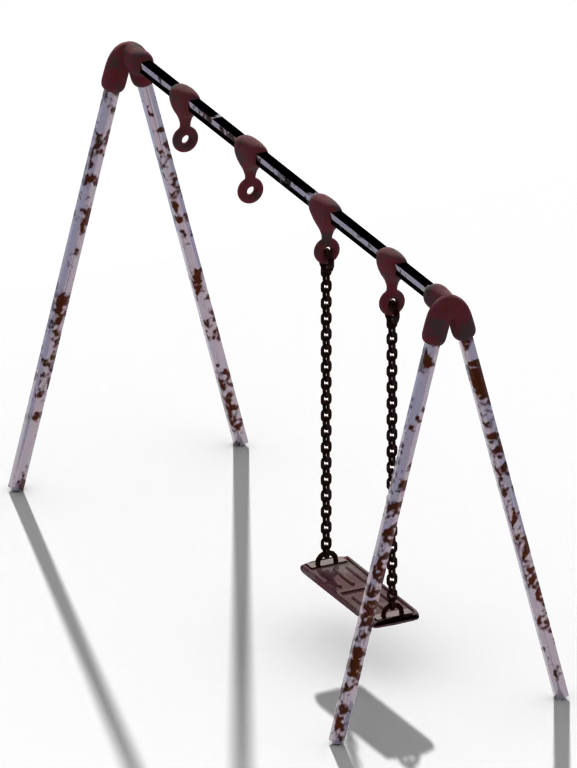
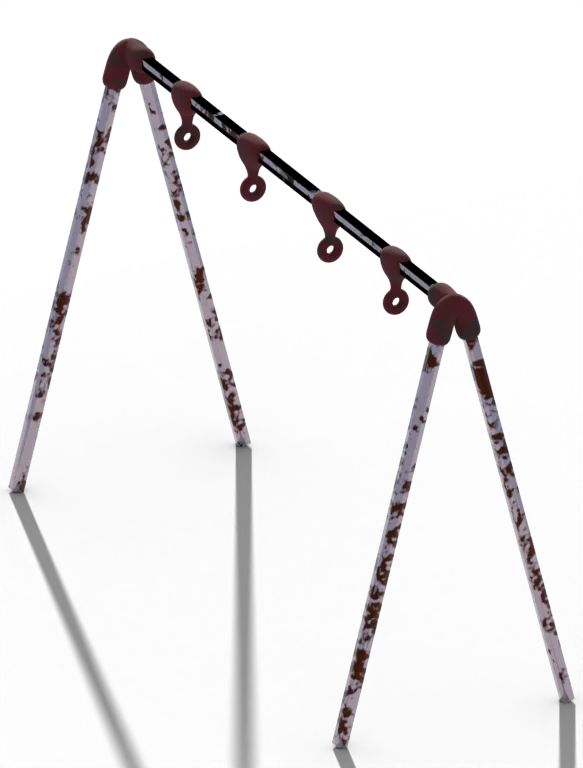
feat(white-rabbit): a bounded yard with side fences, a neighbor's house and a cross street, a deck with railings, a gate, and two flights of steps, a garden of squash on trellises running onto the fence and cherry tomatoes in cages, and plants and the swing moving in the wind

diff --git a/src/app/public/js/white-rabbit-world.js b/src/app/public/js/white-rabbit-world.js
@@ -36,7 +36,12 @@ const SHAPE_GLSL = /* glsl */`
     vec2 q = (xz - vec2(${POND.x.toFixed(1)}, ${POND.z.toFixed(1)})) / vec2(${POND.ax.toFixed(1)}, ${POND.az.toFixed(1)});
     return (length(q) - shape(atan(q.y, q.x))) * ${((POND.ax + POND.az) / 2).toFixed(1)};
   }`;
-const BED = [-19.7, -18.3, 2.5, 12.5];    // the sunflower bed: x0, x1, z0, z1
+const BED = [-19.7, -18.3, -6.5, 11.5];   // the garden along the back fence: x0, x1, z0, z1
+// The yard: the back fence, and the side fences from the house to it (the right side, toward -z, meets
+// a cross street; the left, toward +z, a neighbor's house), and the deck below the window
+const YARD = { back: -20, right: -10, left: 12.5 };
+const DECK = { x0: -8.6, x1: -2.05, z0: -9.4, z1: -1.0, y: GROUND + 0.75 };
+const CROSS = { walk1: [-10.6, -12.6], road: [-12.6, -19.6], walk2: [-19.6, -21.6] };
 
 // The atlas cells: u0, v0, u1, v1, and width over height (from blender/world.py), and each kind's height in meters
 const CELLS = [[0.0306, 0.5, 0.3021, 1.0, 0.652], [0.3333, 0.5, 0.6667, 0.8125, 1.28], [0.6667, 0.5, 1.0, 0.8453, 1.158],
@@ -117,6 +122,19 @@ const GROUND_FRAG = /* glsl */`
       col = mix(tar, vec3(0.85, 0.66, 0.12), yellow);
       col = mix(col, vec3(0.86), white);
     }
+    // The cross street off to the right, running out from beside the house to the road, with its sidewalks
+    if (x > ${STRIP.road[1].toFixed(1)}) {
+      if ((z < ${CROSS.walk1[0].toFixed(1)} && z > ${CROSS.walk1[1].toFixed(1)}) || (z < ${CROSS.walk2[0].toFixed(1)} && z > ${CROSS.walk2[1].toFixed(1)})) if (x > ${STRIP.sidewalk1[0].toFixed(1)})
+        col = vec3(0.66, 0.64, 0.6) * (0.9 + 0.12 * noise(vW.xz * 7.0)) * (1.0 - 0.35 * smoothstep(0.03, 0.0, abs(fract(x / 1.5) - 0.5) - 0.47));
+      if (z < ${CROSS.road[0].toFixed(1)} && z > ${CROSS.road[1].toFixed(1)}) {
+        float mz = ${((CROSS.road[0] + CROSS.road[1]) / 2).toFixed(2)};
+        col = vec3(0.14, 0.14, 0.15) * (0.85 + 0.3 * noise(vW.xz * 9.0)) * (0.9 + 0.15 * noise(vW.xz * 0.5));
+        col = mix(col, vec3(0.85, 0.66, 0.12), smoothstep(0.07, 0.05, abs(abs(z - mz) - 0.12)) * step(${STRIP.road[0].toFixed(1)}, x));
+        col = mix(col, vec3(0.1), 0.25 * smoothstep(0.6, 0.0, noise(vW.xz * 0.8)));   // patched cracks and oil
+      }
+    }
+    // Deep shade under the deck
+    if (x > ${DECK.x0.toFixed(2)} - 0.3 && x < ${DECK.x1.toFixed(2)} && z > ${DECK.z0.toFixed(2)} - 0.3 && z < ${DECK.z1.toFixed(2)} + 0.3) col *= 0.45;
     // Around the pond: a rim of quarry stone at the water, a strip of grass, then the gravel walkway
     if (e < 0.9) col = vec3(0.52, 0.5, 0.46) * (0.7 + 0.45 * hash(floor(vW.xz * 6.0)));
     else if (e > 2.2 && e < 4.2) col = vec3(0.7, 0.66, 0.58) * (0.85 + 0.25 * hash(floor(vW.xz * 30.0))) * (1.0 - 0.15 * smoothstep(0.3, 0.0, min(e - 2.2, 4.2 - e)));
@@ -218,11 +236,15 @@ const SOLID_VERT = /* glsl */`
   }`;
 const SOLID_FRAG = /* glsl */`
   ${COMMON}
+  ${hash}
   uniform vec3 uColor;
+  uniform float uGrain;
   varying vec3 vW, vN, vTint;
   void main() {
-    // Weathering: paint greys and greens toward the ground, where rain splashes and mower clippings land
+    // Weathering: paint greys and greens toward the ground, where rain splashes and mower clippings land;
+    // bare wood (uGrain) shows streaky grain and silvering
     vec3 c = uColor * vTint * mix(vec3(0.72, 0.76, 0.66), vec3(1.0), smoothstep(-3.0, -2.55, vW.y));
+    c *= 1.0 - uGrain * (0.18 * noise(vec2(vW.z * 1.3 + vW.x * 30.0, vW.y * 40.0 + vW.x * 7.0)) + 0.08 * noise(vW.xz * 23.0));
     gl_FragColor = vec4(outdoor(c, normalize(vN), vW), 1.0);
   }`;
 
@@ -238,8 +260,8 @@ export function createWorld({ scene, touch }) {
   // Trees: on the verge past the fence and along the shore, thinned where the window looks out (z near
   // 0.6) so the lake shows between them, and a few in the yard's corners
   const trees = [];
-  for (let z = -46; z < 46; z += 6 + rnd() * 4) if (Math.abs(z - 0.6) > 9 || rnd() < 0.2) trees.push([-20.9 - rnd() * 0.5, z, rnd(), 1]);
-  trees.push([-15.5, -13.5, rnd(), 1], [-5.5, 15, rnd(), 1], [-17, 16.5, rnd(), 1]);
+  for (let z = -46; z < 46; z += 6 + rnd() * 4) if ((Math.abs(z - 0.6) > 9 || rnd() < 0.2) && (z > -10 || z < -22.5)) trees.push([-20.9 - rnd() * 0.5, z, rnd(), 1]);
+  trees.push([-16.2, -8.4, rnd(), 0.8], [-4.2, 10.6, rnd(), 0.7]);
   // In the park on the near bank, behind the walkway, spaced so the water shows between them; the far
   // banks, a kilometer off, get a continuous wooded line instead (below)
   for (let a = -0.4; a < 0.4 && trees.length < 48; a += 0.025 + rnd() * 0.03) {
@@ -305,57 +327,189 @@ export function createWorld({ scene, touch }) {
   })));
   hills.rotation.y = Math.PI / 2; hills.position.set(-2600, GROUND + 70, 0);
 
-  // The fence: white pickets on two rails between posts every 2.4 m, years old. Pickets differ a little in
-  // height and lean, some sections sag, the paint has weathered unevenly and gone grey and green near the
-  // ground, a few pickets lean hard, and here and there one is missing
-  const solid = (color) => new T.ShaderMaterial({ uniforms: { ...common, uColor: { value: new T.Color(color) } }, vertexShader: SOLID_VERT, fragmentShader: SOLID_FRAG });
-  const n = Math.floor(120 / 0.16), pickets = keep(new T.InstancedMesh(new T.BoxGeometry(0.02, 1.1, 0.09), solid("#FFFFFF"), n));
+  // The fence: white pickets 1.5 m tall on two rails between posts every 2.4 m, around the back and both
+  // sides of the yard, years old. Pickets differ a little in height and lean, sections sag, the paint has
+  // weathered unevenly and gone grey and green near the ground, a few pickets lean hard, and here and there
+  // one is missing
+  const solid = (color, grain = 0) => new T.ShaderMaterial({ uniforms: { ...common, uColor: { value: new T.Color(color) }, uGrain: { value: grain } }, vertexShader: SOLID_VERT, fragmentShader: SOLID_FRAG });
   const m = new T.Matrix4(), qq = new T.Quaternion(), e = new T.Euler(), at0 = new T.Vector3(), sc0 = new T.Vector3(), tint = new T.Color();
-  const sag = (z) => 0.035 * Math.sin(((z + 60) / 2.4) * Math.PI) ** 2 * (0.4 + 0.6 * Math.abs(Math.sin(z * 0.37)));
-  for (let i = 0; i < n; i++) {
-    const z = -60 + i * 0.16 + (rnd() - 0.5) * 0.015, hard = rnd() < 0.015, gone = rnd() < 0.008;
-    const h = 1 + (rnd() - 0.5) * 0.06;
-    e.set((rnd() - 0.5) * 0.04 + (hard ? (rnd() - 0.5) * 0.5 : 0), 0, (rnd() - 0.5) * 0.05 + (hard ? 0.18 : 0));
-    at0.set(STRIP.fence + (rnd() - 0.5) * 0.01, GROUND + 0.55 * h - sag(z), z); sc0.set(1, gone ? 0.0001 : h, 1);
-    pickets.setMatrixAt(i, m.compose(at0, qq.setFromEuler(e), sc0));
-    const w = 0.82 + rnd() * 0.18;
-    pickets.setColorAt(i, tint.setRGB(0.93 * w, 0.92 * w, 0.88 * w - rnd() * 0.04));
+  const PICKET = 1.5, runs = [[YARD.back, YARD.right, YARD.back, YARD.left], [-2.1, YARD.right, YARD.back, YARD.right], [-2.1, YARD.left, YARD.back, YARD.left]];
+  const lens = runs.map(([x0, z0, x1, z1]) => Math.hypot(x1 - x0, z1 - z0)), total = lens.reduce((a, b) => a + b, 0);
+  const pickets = keep(new T.InstancedMesh(new T.BoxGeometry(0.02, PICKET, 0.09), solid("#FFFFFF"), Math.ceil(total / 0.16) + 3));
+  const posts = keep(new T.InstancedMesh(new T.BoxGeometry(0.09, PICKET + 0.12, 0.09), solid("#D8D4C8"), Math.ceil(total / 2.4) + 6));
+  let np = 0, nq = 0;
+  runs.forEach(([x0, z0, x1, z1], r) => {
+    const len = lens[r], turn = Math.atan2(x1 - x0, z1 - z0), sag = (d) => 0.035 * Math.sin((d / 2.4) * Math.PI) ** 2 * (0.4 + 0.6 * Math.abs(Math.sin(d * 0.37 + r)));
+    const at = (d) => [x0 + ((x1 - x0) * d) / len, z0 + ((z1 - z0) * d) / len];
+    for (let d = 0.08; d < len; d += 0.16) {
+      const hard = rnd() < 0.015, gone = rnd() < 0.008, h = 1 + (rnd() - 0.5) * 0.05, [x, z] = at(d + (rnd() - 0.5) * 0.015);
+      e.set((rnd() - 0.5) * 0.04 + (hard ? (rnd() - 0.5) * 0.4 : 0), turn, (rnd() - 0.5) * 0.04 + (hard ? 0.16 : 0), "YXZ");
+      at0.set(x + (rnd() - 0.5) * 0.01, GROUND + (PICKET / 2) * h - sag(d), z); sc0.set(1, gone ? 0.0001 : h, 1);
+      pickets.setMatrixAt(np, m.compose(at0, qq.setFromEuler(e), sc0));
+      const w = 0.82 + rnd() * 0.18;
+      pickets.setColorAt(np++, tint.setRGB(0.93 * w, 0.92 * w, 0.88 * w - rnd() * 0.04));
+    }
+    for (let d = 0; d <= len + 0.01; d += 2.4) {
+      const [x, z] = at(Math.min(d, len));
+      e.set((rnd() - 0.5) * 0.05, turn, (rnd() - 0.5) * 0.06, "YXZ");
+      posts.setMatrixAt(nq++, m.compose(at0.set(x, GROUND + (PICKET + 0.12) / 2 - 0.02, z), qq.setFromEuler(e), sc0.set(1, 1, 1)));
+    }
+    for (const y of [0.35, PICKET - 0.3]) {
+      const rail = keep(new T.Mesh(new T.BoxGeometry(0.04, 0.08, len, 1, 1, Math.ceil(len * 3)), solid("#DAD6CA")));
+      const pos = rail.geometry.attributes.position;
+      for (let i = 0; i < pos.count; i++) pos.setY(i, pos.getY(i) - sag(pos.getZ(i) + len / 2));
+      rail.geometry.computeVertexNormals();
+      const [cx, cz] = at(len / 2); rail.position.set(cx, GROUND + y, cz); rail.rotation.y = turn;
+    }
+  });
+  pickets.count = np; posts.count = nq;
+
+  // The neighbor's house past the left fence: two stories of pale clapboard under a dark shingle gable, with
+  // white-trimmed windows (a few lit warm, a couple with blinds half down), a back door and step, and a
+  // downspout, weathered a little where the rain runs
+  const HOUSE = { x0: -18.5, x1: -7.5, z0: 14, z1: 24, h: 6.2, ridge: 9.0 };
+  const siding = new T.ShaderMaterial({
+    uniforms: { ...common }, vertexShader: SOLID_VERT,
+    fragmentShader: `${COMMON}\n${hash}\nvarying vec3 vW, vN, vTint;
+      void main() {
+        vec3 n = normalize(vN), c = vec3(0.7, 0.74, 0.76);
+        float y = vW.y - ${GROUND.toFixed(1)};
+        c *= 0.86 + 0.14 * smoothstep(0.0, 0.03, fract(y / 0.2));                 // clapboard shadow lines
+        c *= 0.92 + 0.08 * noise(vW.xz * 0.7 + y * 0.3);
+        c = mix(c * 0.8, c, smoothstep(0.0, 0.6, y));                               // splash grime at the foot
+        vec2 f = abs(n.z) > 0.5 ? vec2(vW.x, y) : vec2(vW.z, y);
+        // Windows: two rows, set unevenly along the wall, each a white frame round dark glass
+        for (int r = 0; r < 2; r++) {
+          float wy = r == 0 ? 1.0 : 4.1;
+          for (int k = 0; k < 4; k++) {
+            float wx = (abs(n.z) > 0.5 ? -16.9 : 15.2) + float(k) * 2.9 + (r == 1 && k == 2 ? 0.4 : 0.0);
+            vec2 d = abs(f - vec2(wx, wy + 0.75)) - vec2(0.48, 0.72);
+            float frame = step(max(d.x, d.y), 0.08), glass = step(max(d.x, d.y), 0.0);
+            float blind = step(wy + 0.75 + 0.72 - (hash(vec2(float(k), float(r))) > 0.6 ? 0.6 : 0.0), y);
+            vec3 g = mix(vec3(0.08, 0.1, 0.12), vec3(0.85, 0.7, 0.45), step(0.85, hash(vec2(float(k) + 3.0, float(r)))) * 0.6);
+            g = mix(g, vec3(0.8, 0.78, 0.7), blind * glass);
+            c = mix(c, vec3(0.93), frame); c = mix(c, g, glass);
+          }
+        }
+        gl_FragColor = vec4(outdoor(c, n, vW), 1.0);
+      }`,
+  });
+  const walls = keep(new T.Mesh(new T.BoxGeometry(HOUSE.x1 - HOUSE.x0, HOUSE.h, HOUSE.z1 - HOUSE.z0), siding));
+  walls.position.set((HOUSE.x0 + HOUSE.x1) / 2, GROUND + HOUSE.h / 2, (HOUSE.z0 + HOUSE.z1) / 2);
+  // The gable roof, ridge running along x, with a little overhang and a dark shingle texture
+  {
+    const ox = 0.35, x0 = HOUSE.x0 - ox, x1 = HOUSE.x1 + ox, z0 = HOUSE.z0 - ox, z1 = HOUSE.z1 + ox, zm = (HOUSE.z0 + HOUSE.z1) / 2, y0 = GROUND + HOUSE.h - 0.25, y1 = GROUND + HOUSE.ridge;
+    const v = [x0, y0, z0, x1, y0, z0, x1, y1, zm, x0, y0, z0, x1, y1, zm, x0, y1, zm, x1, y0, z1, x0, y0, z1, x0, y1, zm, x1, y0, z1, x0, y1, zm, x1, y1, zm,
+      x0, y0, z0, x0, y1, zm, x0, y0, z1, x1, y0, z1, x1, y1, zm, x1, y0, z0];
+    const g = new T.BufferGeometry(); g.setAttribute("position", new T.Float32BufferAttribute(v, 3)); g.computeVertexNormals();
+    keep(new T.Mesh(g, new T.ShaderMaterial({
+      uniforms: { ...common }, vertexShader: SOLID_VERT, side: T.DoubleSide,
+      fragmentShader: `${COMMON}\n${hash}\nvarying vec3 vW, vN, vTint;
+        void main() { vec3 n = normalize(vN); float row = floor((vW.y) / 0.14);
+          vec3 c = vec3(0.2, 0.19, 0.18) * (0.8 + 0.35 * hash(vec2(floor(vW.x / 0.33 + row * 0.5), row)));
+          if (abs(n.x) > 0.9) c = vec3(0.72, 0.75, 0.77);                    // the gable ends are sided
+          gl_FragColor = vec4(outdoor(c, n, vW), 1.0); }`,
+    })));
   }
-  const posts = keep(new T.InstancedMesh(new T.BoxGeometry(0.09, 1.25, 0.09), solid("#D8D4C8"), 50));
-  for (let i = 0; i < 50; i++) {
-    e.set((rnd() - 0.5) * 0.05, 0, (rnd() - 0.5) * 0.06);
-    posts.setMatrixAt(i, m.compose(at0.set(STRIP.fence + 0.06, GROUND + 0.6, -60 + i * 2.4), qq.setFromEuler(e), sc0.set(1, 1, 1)));
-  }
-  for (const y of [0.3, 0.85]) {
-    const rail = keep(new T.Mesh(new T.BoxGeometry(0.04, 0.08, 120, 1, 1, 300), solid("#DAD6CA")));
-    const pos = rail.geometry.attributes.position;
-    for (let i = 0; i < pos.count; i++) pos.setY(i, pos.getY(i) - sag(pos.getZ(i)));
-    rail.geometry.computeVertexNormals();
-    rail.position.set(STRIP.fence + 0.03, GROUND + y, 0);
+  const spout = keep(new T.Mesh(new T.BoxGeometry(0.07, HOUSE.h, 0.07), solid("#E8E6E0")));
+  spout.position.set(HOUSE.x1 + 0.05, GROUND + HOUSE.h / 2, HOUSE.z0 + 0.4);
+
+  // The deck below the window: weathered boards running along the house, a rim board, posts, and railings
+  // round the outside with balusters, a gate left ajar at the top of the steps down into the yard, and a
+  // second flight down at the right end. Boards differ in tone and sit a hair uneven
+  {
+    const wood = solid("#8A7A66", 1), boards = Math.floor((DECK.x1 - DECK.x0) / 0.145), L = DECK.z1 - DECK.z0;
+    const planks = keep(new T.InstancedMesh(new T.BoxGeometry(0.135, 0.032, 1), wood, boards * 2));
+    let k = 0;
+    for (let i = 0; i < boards; i++) {
+      const x = DECK.x0 + 0.075 + i * 0.145, split = 0.25 + rnd() * 0.5;   // each row in two lengths, joints staggered
+      for (const [a, b] of [[0, split], [split, 1]]) {
+        const len = (b - a) * L - 0.006, z = DECK.z0 + ((a + b) / 2) * L;
+        e.set(0, 0, (rnd() - 0.5) * 0.02);
+        planks.setMatrixAt(k, m.compose(at0.set(x, DECK.y + (rnd() - 0.5) * 0.004, z), qq.setFromEuler(e), sc0.set(1, 1, len)));
+        const w = 0.78 + rnd() * 0.3; planks.setColorAt(k++, tint.setRGB(w, w * (0.95 + rnd() * 0.05), w * (0.9 + rnd() * 0.08)));
+      }
+    }
+    const piece = (w, h, d, x, y, z, rotY = 0, rotZ = 0) => { const o = keep(new T.Mesh(new T.BoxGeometry(w, h, d), wood)); o.position.set(x, y, z); o.rotation.set(0, rotY, rotZ); return o; };
+    // Rim boards and posts down to the ground
+    piece(0.04, 0.2, L, DECK.x0, DECK.y - 0.1, (DECK.z0 + DECK.z1) / 2);
+    piece(DECK.x1 - DECK.x0, 0.2, 0.04, (DECK.x0 + DECK.x1) / 2, DECK.y - 0.1, DECK.z0);
+    piece(DECK.x1 - DECK.x0, 0.2, 0.04, (DECK.x0 + DECK.x1) / 2, DECK.y - 0.1, DECK.z1);
+    for (const z of [DECK.z0 + 0.1, -5.9, DECK.z1 - 0.1]) for (const x of [DECK.x0 + 0.1, -6.4, -4.2]) piece(0.1, DECK.y - GROUND, 0.1, x, (DECK.y + GROUND) / 2, z);
+    // A railing between two points on the deck edge: top and bottom rails, posts at the ends, balusters between
+    const railing = (x0, z0, x1, z1, y0 = DECK.y, y1 = DECK.y) => {
+      const len = Math.hypot(x1 - x0, z1 - z0), turn = Math.atan2(x1 - x0, z1 - z0), mx = (x0 + x1) / 2, mz = (z0 + z1) / 2, my = (y0 + y1) / 2, tilt = Math.atan2(y1 - y0, len);
+      const top = piece(0.13, 0.04, Math.hypot(len, y1 - y0), mx, my + 0.95, mz, turn); top.rotation.x = -tilt;
+      const bot = piece(0.06, 0.05, Math.hypot(len, y1 - y0), mx, my + 0.1, mz, turn); bot.rotation.x = -tilt;
+      for (const [x, z, y] of [[x0, z0, y0], [x1, z1, y1]]) piece(0.09, 1.02, 0.09, x, y + 0.48, z);
+      for (let d = 0.12; d < len - 0.06; d += 0.125) {
+        const t = d / len, b = piece(0.035, 0.84, 0.035, x0 + (x1 - x0) * t, y0 + (y1 - y0) * t + 0.53, z0 + (z1 - z0) * t);
+        b.rotation.z = (rnd() - 0.5) * 0.02;
+      }
+    };
+    const G0 = -3.6, G1 = -4.7, S0 = -5.4, S1 = -6.5;        // the gate opening on the outer edge, the stair opening on the right end
+    railing(DECK.x0, DECK.z1, DECK.x0, G0); railing(DECK.x0, G1, DECK.x0, DECK.z0);
+    railing(DECK.x0, DECK.z0, S1, DECK.z0); railing(S0, DECK.z0, DECK.x1, DECK.z0);
+    railing(DECK.x1, DECK.z1, DECK.x0, DECK.z1);
+    // Steps: four down from each opening, on two stringers, with a handrail each side
+    const steps = (x, z, dx, dz, w, along) => {
+      for (let i = 0; i < 4; i++) {
+        const y = DECK.y - 0.1875 * (i + 1) + 0.016, d = 0.28 * (i + 0.5);
+        const s = keep(new T.Mesh(new T.BoxGeometry(along ? w : 0.3, 0.032, along ? 0.3 : w), wood));
+        s.position.set(x + dx * d, y, z + dz * d); s.rotation.y = (rnd() - 0.5) * 0.015;
+      }
+      const ex = x + dx * 1.12, ez = z + dz * 1.12;
+      for (const o of [-w / 2, w / 2]) {
+        const sx = along ? o : 0, sz = along ? 0 : o;
+        railing(x + sx, z + sz, ex + sx, ez + sz, DECK.y, GROUND);
+      }
+    };
+    steps(DECK.x0, (G0 + G1) / 2, -1, 0, G0 - G1, false);
+    steps((S0 + S1) / 2, DECK.z0, 0, -1, S0 - S1, true);
+    // The gate, swung a little open on its hinge at the outer post
+    const gate = new T.Group(); gate.position.set(DECK.x0, DECK.y, G0); gate.rotation.y = -0.45; keep(gate);
+    for (const y of [0.15, 0.85]) { const r = new T.Mesh(new T.BoxGeometry(0.05, 0.06, G0 - G1 - 0.06), wood); r.position.set(0, y, -(G0 - G1) / 2); gate.add(r); }
+    for (let d = 0.08; d < G0 - G1 - 0.05; d += 0.12) { const b = new T.Mesh(new T.BoxGeometry(0.035, 0.78, 0.035), wood); b.position.set(0, 0.5, -d); gate.add(b); }
   }
 
-  // The swing set and the sunflower bed: rendered in Blender (planning folder, blender/yard.blend) from
-  // the way the window looks at them, with their own shadows, so each stands as one card facing the house.
-  // The swing set is an old rusted one (Sketchfab, by main1896, CC BY 4.0); the sunflowers (Sketchfab, by
-  // zvanstone, CC BY 4.0) lean, nod, and turn every which way, late in the season, among weeds and grass
-  // clumps (Poly Haven, CC0)
-  const sprite = (url, w, h, at, toward) => {
+  // The swing set and the garden: rendered in Blender (planning folder, blender/yard.blend) from the way the
+  // window looks at them, with their own shadows, so each stands as a card facing the house. The swing set
+  // is an old rusted one (Sketchfab, by main1896, CC BY 4.0); its chains and seat are a second card hung
+  // from the bar, swinging a little in the wind. The garden runs along the back fence: sunflowers (Sketchfab,
+  // by zvanstone, CC BY 4.0), late in the season and wilting, among weeds and grass clumps (Poly Haven, CC0);
+  // a long raised bed with two leaning lattice trellises, squash vines climbing them and running on along
+  // the fence with big leaves, yellow flowers, and long squash hanging (the fruit from a scan by
+  // vtIndigenousCommunityGarden, Sketchfab, CC BY 4.0); and a bed of cherry tomatoes in wire cages (Sketchfab,
+  // by zvanstone, CC BY 4.0). The plants sway with the wind, more toward their tops
+  const sprite = (url, w, h, at, toward, sway = 0, parent = group) => {
     const map = { value: null };
     loader.load(url, (t) => { t.colorSpace = T.SRGBColorSpace; map.value = t; textures.push(t); });
-    const card = new T.PlaneGeometry(w, h); card.translate(0, h / 2, 0);
-    const mesh = keep(new T.Mesh(card, new T.ShaderMaterial({
-      uniforms: { ...common, uMap: map }, vertexShader: GROUND_VERT, transparent: true, depthWrite: false,
+    const card = new T.PlaneGeometry(w, h, 24, 4); card.translate(0, h / 2, 0);
+    const mesh = new T.Mesh(card, new T.ShaderMaterial({
+      uniforms: { ...common, ...timed, uMap: map, uSway: { value: sway } }, transparent: true, depthWrite: false, side: T.DoubleSide,
+      vertexShader: `uniform float uPhase, uWind, uSway; varying vec3 vW; varying vec2 vUv;
+        void main() { vUv = uv; vec3 p = position;
+          float k = uv.y * uv.y * uSway;
+          p.x += (sin(uPhase * 1.1 + uv.x * 23.0) * 0.05 + sin(uPhase * 2.7 + uv.x * 61.0) * 0.015) * (1.0 + 2.0 * uWind) * k + uWind * 0.07 * k;
+          vec4 w = modelMatrix * vec4(p, 1.0); vW = w.xyz; gl_Position = projectionMatrix * viewMatrix * w; }`,
       fragmentShader: `${COMMON}\nuniform sampler2D uMap; varying vec3 vW; varying vec2 vUv;
         void main() { vec4 c = texture2D(uMap, vUv); if (c.a < 0.02) discard;
           float d = distance(vW, cameraPosition);
           gl_FragColor = vec4(mix(c.rgb * (0.78 + 0.22 * uSun), uHaze, 1.0 - exp(-d / 1100.0)), c.a); }`,
-    })));
-    mesh.position.set(at[0], GROUND, at[2]);
-    mesh.rotation.y = Math.atan2(toward[0], toward[2]);
+    }));
+    parent.add(mesh);
+    mesh.position.set(at[0], at[1], at[2]);
+    if (toward) mesh.rotation.y = Math.atan2(toward[0], toward[2]);
     return mesh;
   };
-  sprite("/media/white-rabbit/yard-swing.webp", 2.9, 3.97, [-11, 0, -4], [9.05, 0, 4.6]);
-  sprite("/media/white-rabbit/yard-bed.webp", 10.74, 4.0, [(BED[0] + BED[1]) / 2, 0, (BED[2] + BED[3]) / 2], [17.05, 0, -6.9]);
+  const SWING = [-11, GROUND, -4], SWING_TO = [9.05, 0, 4.6], SW = 2.9, SH = 3.81, PIVOT = 0.644 * SH;
+  sprite("/media/white-rabbit/yard-swing.webp", SW, SH, SWING, SWING_TO);
+  const hinge = new T.Group(); hinge.position.set(SWING[0], SWING[1] + PIVOT, SWING[2]); hinge.rotation.y = Math.atan2(SWING_TO[0], SWING_TO[2]); keep(hinge);
+  const seat = new T.Group(); hinge.add(seat);
+  sprite("/media/white-rabbit/yard-swing-seat.webp", SW, SH, [0, -PIVOT, 0.01], null, 0, seat);
+  // The garden's card lies along its row (the back fence), widened by the slant it was rendered at, so its
+  // two ends stay at their true depths
+  sprite("/media/white-rabbit/yard-garden.webp", 16.67 / Math.cos(Math.atan2(6.4, 17.05)), 4.25, [(BED[0] + BED[1]) / 2, GROUND, (BED[2] + BED[3]) / 2], [1, 0, 0], 1);
 
   // Ducks: a few mallards and one white duck, each paddling a slow loop of its own near the near bank
   const ducks = [], drake = solid("#5A4632"), hen = solid("#7A6046"), green = solid("#1F4F2E"), white = solid("#F2F0E8"), bill = solid("#E0A028");
@@ -377,6 +531,8 @@ export function createWorld({ scene, touch }) {
     }
     common.uSun.value = sunShare;
     timed.uTime.value = time; timed.uPhase.value = phase; timed.uWind.value = wind;
+    // The swing drifts on its chains, further in the gusts
+    seat.rotation.x = Math.sin(phase * 0.85) * (0.05 + 0.2 * wind) + Math.sin(phase * 2.3 + 1) * 0.015 + wind * 0.08;
   }
 
   // Frees what the world made
